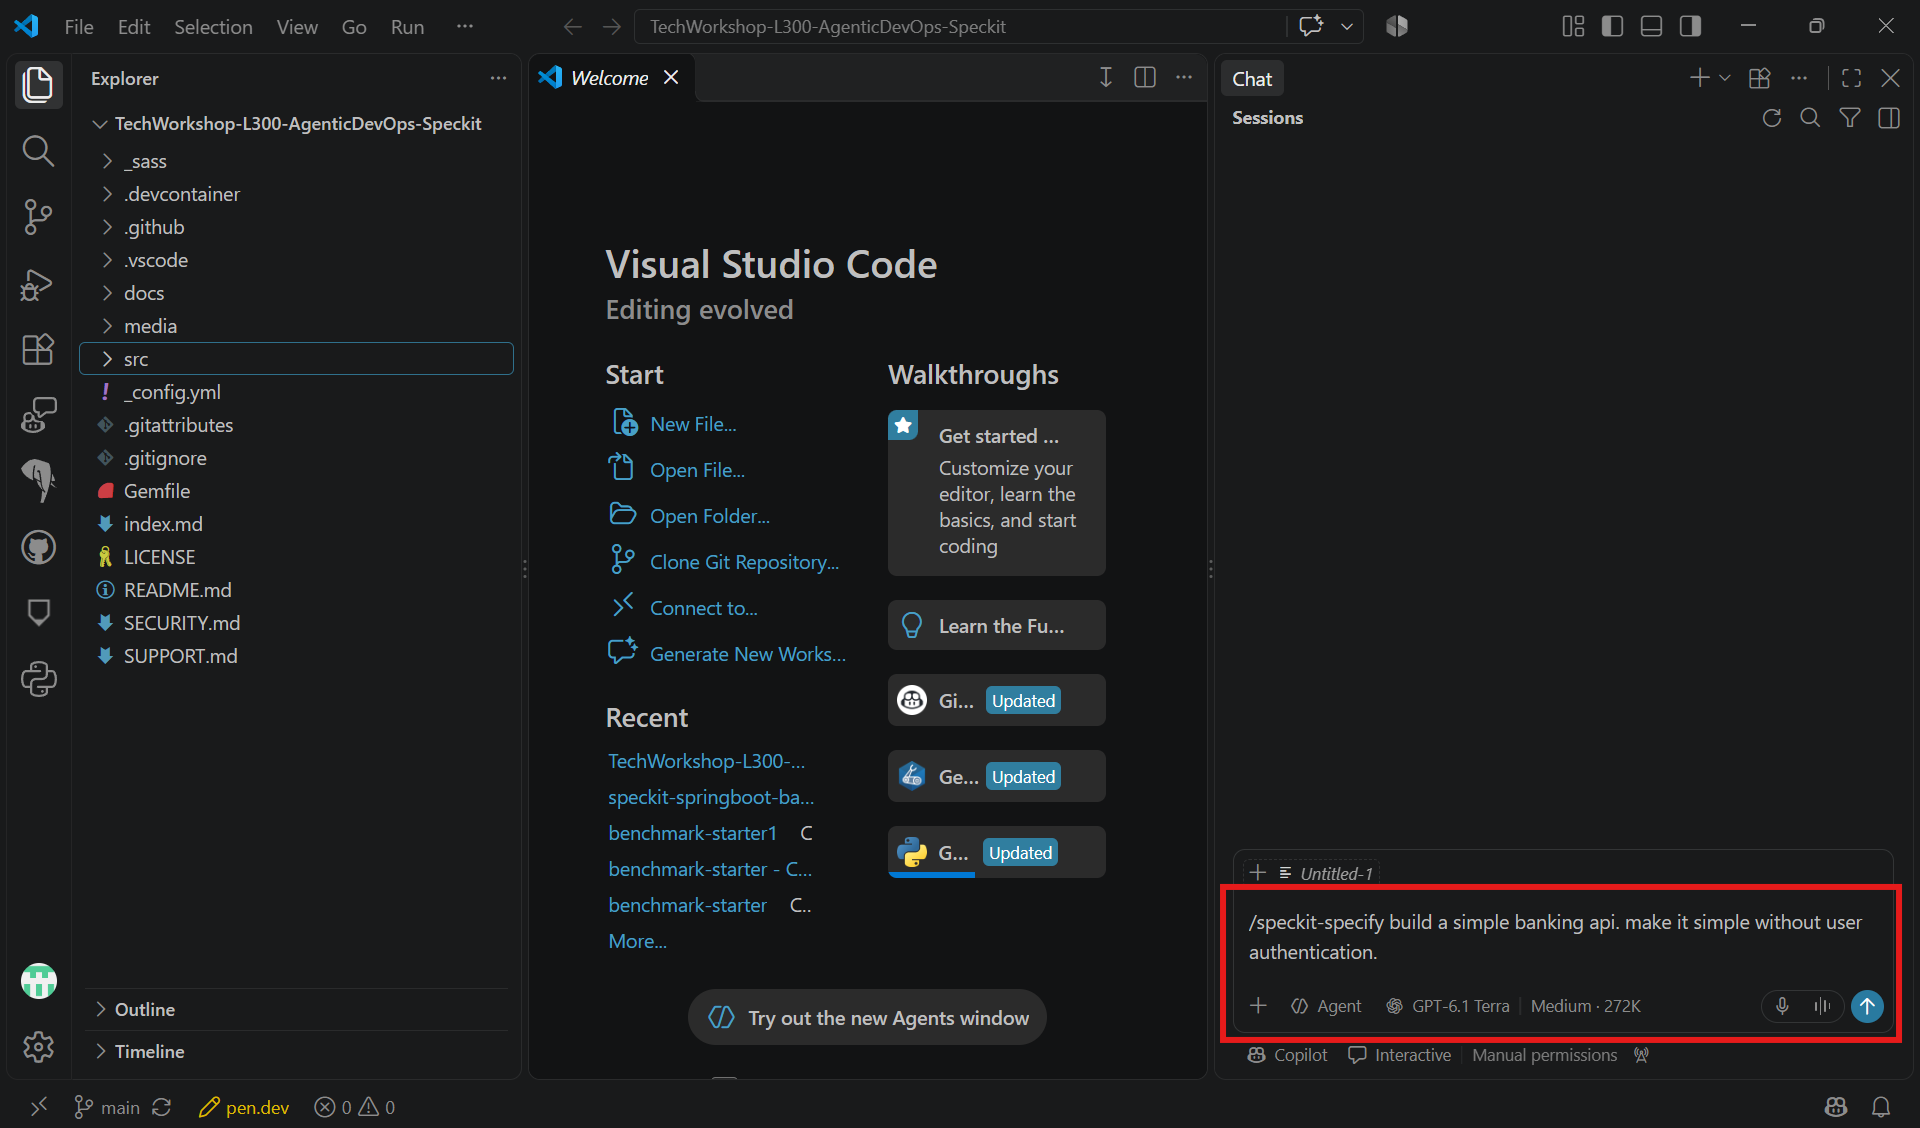
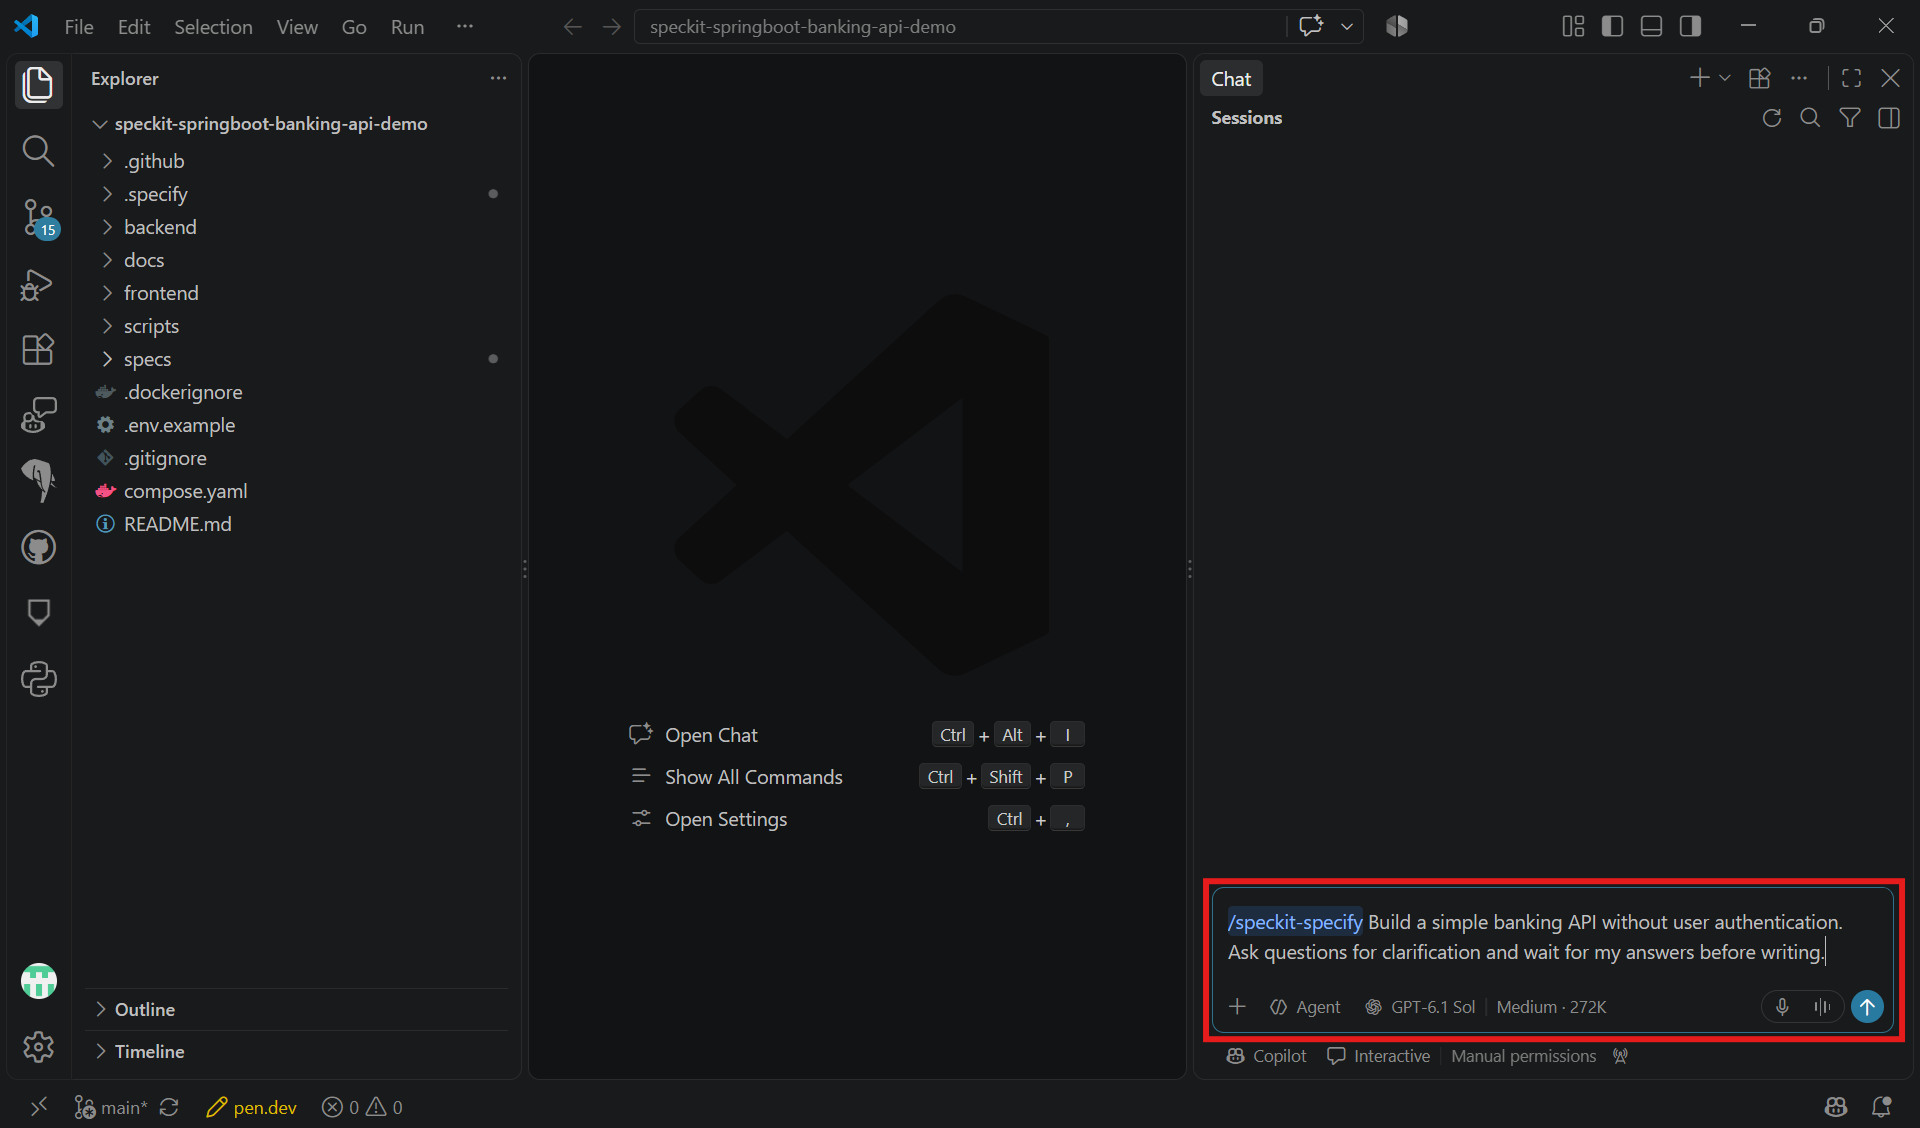
Refactor code structure for improved readability and maintainability

diff --git a/docs/04_specify_and_plan_banking_api/04_01.md b/docs/04_specify_and_plan_banking_api/04_01.md
@@ -29,15 +29,10 @@ Run `/speckit-specify` in Copilot chat with the banking prompt below, then revie
 
 ## Key Tasks
 
-1. Run the sample `/speckit-specify` prompt below in Copilot chat, not in the terminal.
-2. Review the generated `spec.md`. Keep the scope limited to fictional customers with two seeded accounts in USD, account listing, balances, simulated deposits, withdrawals, transfers, and transaction history.
-3. Add acceptance checks for normal and invalid requests. Confirm that rejected operations leave balances and transaction history unchanged and that transfers either complete in full or make no changes.
-4. Resolve any clarification markers before planning. Remove any generated authentication or production-deployment requirements.
+### 01: Choose a model
 
 <details markdown="block">
-<summary>Example solution</summary>
-
-### Choose a model
+<summary><strong>Expand this section to view the solution</strong></summary>
 
 For early steps such as Specify and Plan, a more capable reasoning model is recommended. Open the model picker in Copilot chat and choose **GPT-6.1 Sol**, **GPT-6.1 Terra**, or **Claude Sonnet 5.5**, as available in your environment.
 
@@ -49,20 +44,57 @@ Alternatively, choose **Copilot Fusion**, which selects a model or combines mode
 
 ![Copilot Fusion settings with Effort Level set to High](../../media/Solution/0401_model_fusion_02.png)
 
-### Set permissions
+</details>
+
+### 02: Set permissions
+
+<details markdown="block">
+<summary><strong>Expand this section to view the solution</strong></summary>
 
 Normally, use **Manual permissions** to retain control over tool approvals. For this lab, choose **Assisted permissions**, which evaluates risk before running tools. Review any approval requests; do not select **Allow all** or disable existing safety controls.
 
 ![Copilot permissions menu showing Manual permissions and Assisted permissions](../../media/Solution/0401_copilot_permissions.png)
 
-### Run Specify
+</details>
+
+### 03: Run Specify
+
+Run the sample `/speckit-specify` prompt below in Copilot chat, not in the terminal.
+
+<details markdown="block">
+<summary><strong>Expand this section to view the solution</strong></summary>
 
 Paste this short prompt into Copilot chat:
 
 ```text
-/speckit-specify build a simple banking api. make it simple without user authentication.
+/speckit-specify Build a simple banking API without user authentication. Ask questions for clarification and wait for my answers before writing.
 ```
 
 ![Banking API Specify prompt entered in Copilot chat](../../media/Solution/0401_specify_prompt.png)
 
 </details>
+
+### 04: Answer clarification questions
+
+Answer Copilot's clarification questions by selecting the option you prefer for each question.
+
+<details markdown="block">
+<summary><strong>Expand this section to view the solution</strong></summary>
+
+Copilot asks for clarification before writing the specification. Select the option you prefer for each question, then continue through the remaining questions and submit your answers. Keep authentication out of scope and use fictional data only.
+
+![Copilot asking which banking operations to include with selectable clarification options](../../media/Solution/0401_specify_question.png)
+
+</details>
+
+### 05: Review the specification
+
+Review the generated `spec.md`. Keep the scope limited to fictional customers with two seeded accounts in USD, account listing, balances, simulated deposits, withdrawals, transfers, and transaction history.
+
+### 06: Add acceptance checks
+
+Add acceptance checks for normal and invalid requests. Confirm that rejected operations leave balances and transaction history unchanged and that transfers either complete in full or make no changes.
+
+### 07: Resolve remaining clarifications
+
+Resolve any clarification markers before planning. Remove any generated authentication or production-deployment requirements.
